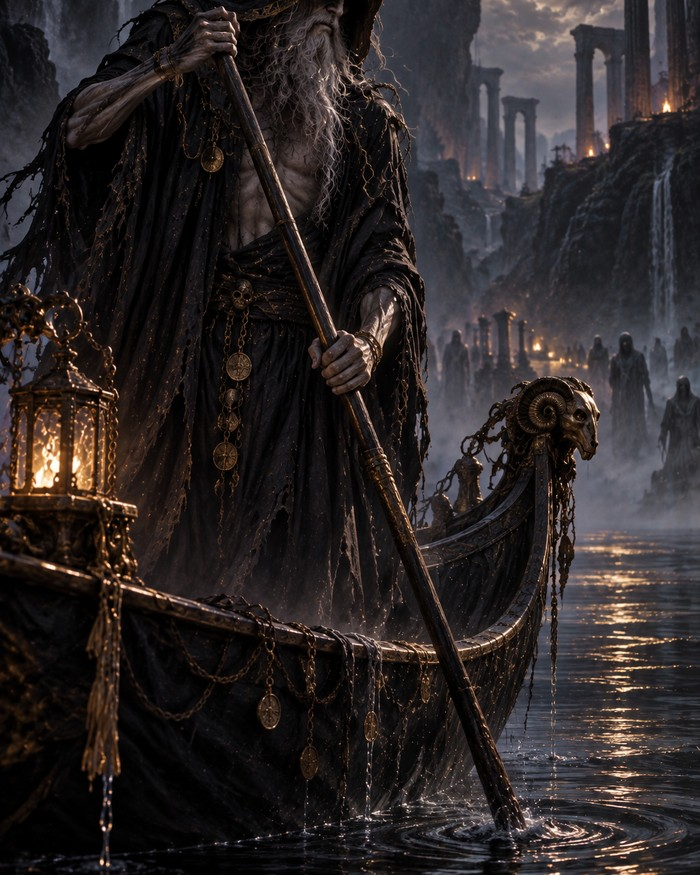
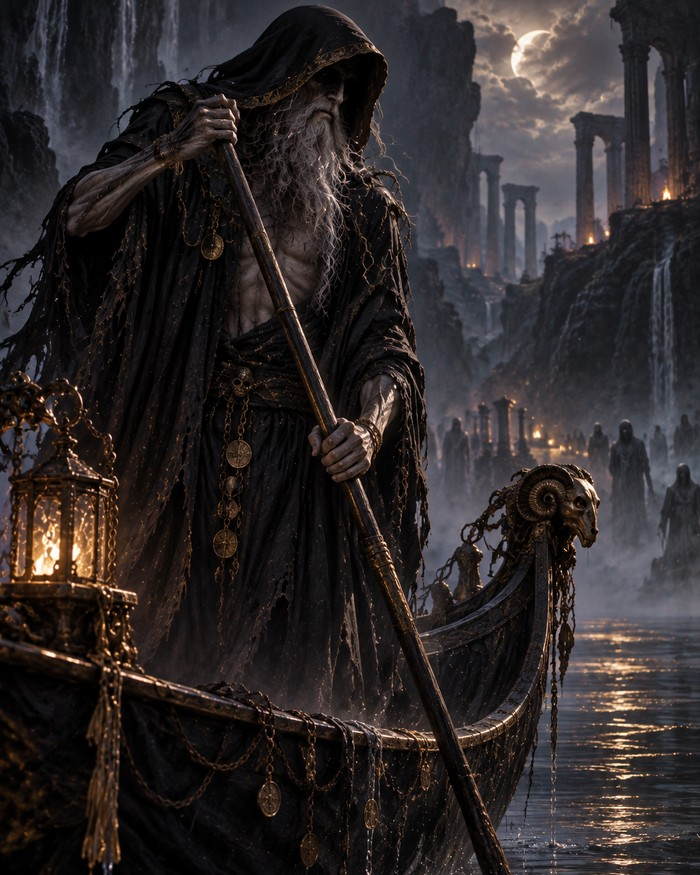
Fix head-cropped images and abrupt content pop-in on figure pages
The centered crop function trimmed top and bottom equally, but both the
Céphale/Procris javelot scene and Charon's portrait had their subject's
head right at the top edge of the source image, so the top trim cut into
it. Re-cropped both from the original files, trimming only from the
bottom this time.

The previous screen-fade fix stopped the whole page from blinking on
same-screen refresh, but didn't address the actual complaint: once
premium content arrives, the fiche body (absent from the loading
skeleton) still popped in with no transition at all. Added a dedicated
fade-in on that block, which needs no JS state tracking since it's a
freshly created element on every render.

Claude-Session: https://claude.ai/code/session_01RmV4NQeKHMug67uKaeW5hA

diff --git a/service-worker.js b/service-worker.js
@@ -1,4 +1,4 @@
-const CACHE="pantheon-v135";
+const CACHE="pantheon-v136";
 const ASSETS=["./","./index.html","./styles.css","./app.js","./manifest.json","./icon.svg","./icon-192.png","./icon-512.png","./icon-180.png","./politique-confidentialite.html","./assets/hero-olympians.jpg","./assets/badge-home-temple.webp","./assets/badge-figures-portrait.webp","./assets/badge-symbols-lyre.webp","./assets/badge-genealogy-mother.webp","./assets/badge-places-map.webp","./assets/badge-quiz-brain.webp","./assets/badge-quiz-debutant.webp","./assets/badge-quiz-sans-faute.webp","./assets/badge-quiz-terrain.webp","./assets/badge-quiz-intermediaire.webp","./assets/badge-quiz-polymathe.webp","./assets/badge-quiz-expert.webp","./assets/badge-quiz-contact.webp","./assets/badge-figure-quiz.webp","./assets/badge-genealogy-tree-link.webp","./assets/home-olive-branch.webp","./assets/symbol-abeille.webp","./assets/symbol-aigle.webp","./assets/symbol-ailes.webp","./assets/symbol-air.webp","./assets/symbol-araignee.webp","./assets/symbol-arc.webp","./assets/symbol-arc-en-ciel.webp","./assets/symbol-aurore.webp","./assets/symbol-balance.webp","./assets/symbol-belier.webp","./assets/symbol-ble.webp","./assets/symbol-caduceus.webp","./assets/symbol-carrefour.webp","./assets/symbol-cerf.webp","./assets/symbol-chaine.webp","./assets/symbol-char.webp","./assets/symbol-char-solaire.webp","./assets/symbol-chemin.webp","./assets/symbol-chene.webp","./assets/symbol-cheval.webp","./assets/symbol-chevre.webp","./assets/symbol-chien.webp","./assets/symbol-chouette.webp","./assets/symbol-cle.webp","./assets/symbol-colombe.webp","./assets/symbol-corbeau.webp","./assets/symbol-couronne.webp","./assets/symbol-crabe.webp","./assets/symbol-cygne.webp","./assets/symbol-corne-abondance.webp","./assets/symbol-eau.webp","./assets/symbol-dauphin.webp","./assets/symbol-cypres.webp","./assets/symbol-egide.webp","./assets/symbol-eclair.webp","./assets/symbol-eclipse.webp","./assets/symbol-etoile.webp","./assets/symbol-feu.webp","./assets/symbol-figue.webp","./assets/symbol-fil.webp","./assets/symbol-fleche.webp","./assets/symbol-crocus.webp","./assets/symbol-narcisse-fleur.webp","./assets/symbol-flute.webp","./assets/symbol-foret.webp","./assets/symbol-graine.webp","./assets/symbol-grenade.webp","./assets/symbol-grotte.webp","./assets/symbol-labyrinthe.webp","./assets/symbol-lance.webp","./assets/symbol-lanterne.webp","./assets/symbol-foudre.webp","./assets/symbol-laurier.webp","./assets/symbol-lierre.webp","./assets/symbol-lion.webp","./assets/symbol-lotus.webp","./assets/symbol-lune.webp","./assets/symbol-lyre.webp","./assets/symbol-miroir.webp","./assets/symbol-myrte.webp","./assets/symbol-noix.webp","./assets/symbol-olive.webp","./assets/symbol-olivier.webp","./assets/symbol-ouroboros.webp","./assets/symbol-paon.webp","./assets/symbol-papillon.webp","./assets/symbol-pavot.webp","./assets/symbol-pegase.webp","./assets/symbol-poisson.webp","./assets/symbol-pomme.webp","./assets/symbol-pont.webp","./assets/symbol-porte.webp","./assets/symbol-raisin.webp","./assets/symbol-riviere.webp","./assets/symbol-rose.webp","./assets/symbol-roue.webp","./assets/symbol-sanglier.webp","./assets/symbol-sceptre.webp","./assets/symbol-scorpion.webp","./assets/symbol-serpent.webp","./assets/symbol-soleil.webp","./assets/symbol-taureau.webp","./assets/symbol-temple.webp","./assets/symbol-terre.webp","./assets/symbol-torche.webp","./assets/symbol-torches.webp","./assets/symbol-trident.webp","./assets/symbol-vigne.webp","./assets/symbol-voile.webp","./assets/map-icon-sanctuaire.webp","./assets/map-icon-montagne.webp","./assets/map-icon-cite.webp","./assets/map-icon-ile.webp","./assets/map-icon-detroit.webp","./assets/map-icon-source.webp","./assets/map-icon-souterrain.webp"];
 
 self.addEventListener("install",event=>{

diff --git a/styles.css b/styles.css
@@ -1755,6 +1755,20 @@ details.symbol-more p, details.symbol-more ul{ margin-top: 10px; }
 #app.screen-fade{ animation: pantheon-screen-fade 0.18s ease; }
 @media (prefers-reduced-motion: reduce){ #app.screen-fade{ animation: none; } }
 
+/* 1bis) Retour direct de l'utilisatrice : « à chaque fois que je charge la page d'un personnage
+   il y a un petit accrochage » — persistait même après avoir empêché #app.screen-fade de rejouer
+   sur un simple rafraîchissement (voir ci-dessus) : le vrai souci n'était pas le clignotement,
+   mais l'apparition BRUTALE, sans la moindre transition, du corps de la fiche (Le mythe, Culte,
+   Lignée...) une fois le contenu premium arrivé — jusque-là absent du squelette de chargement
+   (voir renderOwnerPreviewLoading dans app.js), qui n'affiche que portrait + nom + note. Un fondu
+   dédié sur ce seul bloc, plutôt que sur toute la fiche : comme .detail-body-fade-in est posé sur
+   un élément entièrement recréé à chaque rendu (innerHTML remplacé en bloc), l'animation rejoue
+   d'elle-même sans le moindre retrait/réajout JS — inutile ici, à la différence de #app qui, lui,
+   persiste d'un rendu à l'autre. */
+@keyframes pantheon-detail-body-fade-in{ from{ opacity: 0; } to{ opacity: 1; } }
+.detail-body-fade-in{ animation: pantheon-detail-body-fade-in 0.25s ease; }
+@media (prefers-reduced-motion: reduce){ .detail-body-fade-in{ animation: none; } }
+
 /* 2) Retour tactile au tap — deux familles reprenant chacune la même teinte-cible que le :hover
    déjà défini pour l'élément (jamais une nouvelle couleur inventée), simplement aussi atteignable
    au doigt. Les cartes qui "s'élèvent" au survol (translateY + ombre) s'enfoncent légèrement à

diff --git a/app.js b/app.js
@@ -2859,6 +2859,7 @@ function renderFigureDetail(id){
       ${portrait ? `<img class="${deityPortraitClass(id)}" src="${escapeHTML(portrait)}" alt="${escapeHTML(name)}" loading="lazy"${deityPortraitStyleHTML(id)}>` : ""}
       <h2>${escapeHTML(name)}</h2>
       <p class="note">${escapeHTML(note)}</p>
+      <div class="detail-body-fade-in">
       ${figureAttributesHTML(id)}
       ${paragraphs.length ? `<h3>Le mythe</h3>${paragraphs.map(p => {
         const inline = inlinePortraits.find(cfg => p.includes(cfg.match));
@@ -2876,6 +2877,7 @@ function renderFigureDetail(id){
       ${relatedChipsHTML(related, "symbol")}
       ${quizFigureButtonHTML(id, paragraphs)}
       ${siblingNavHTML(FIGURE_ENTRIES, id, "figureDetail", e => e[1])}
+      </div>
     </article>
     ${backButtonFooterHTML()}
   `;

diff --git a/README.md b/README.md
@@ -4427,3 +4427,37 @@ fois (2 mutations), tandis qu'une vraie navigation entre deux figures différent
 rejouer normalement (vérifié séparément, toujours 2 épisodes distincts).
 
 `service-worker.js` (Panthéon) : `pantheon-v134` → `pantheon-v135`.
+
+## Les deux bugs précédents n'étaient pas vraiment réglés : recadrage et fondu, corrigés pour de bon
+
+Retour direct de l'utilisatrice après le round précédent : « Les deux bugs signalés ne sont pas
+résolus ; l'image où Procris tend le javelot à Céphale est coupée sur la tête de Céphale. Le
+deuxième bug aussi est toujours là avec le clignotement au chargement du texte. »
+
+**Le recadrage.** En zoomant sur le fichier réellement publié plutôt que de se fier à un aperçu
+plein cadre, le défaut saute aux yeux : la fonction de recadrage centrait toujours la réduction de
+hauteur (autant rogné en haut qu'en bas), alors que dans les deux images d'origine, la tête du
+sujet touchait presque le bord supérieur — aucune marge à sacrifier de ce côté-là. Concerné :
+Céphale dans la scène du javelot (tête tranchée au niveau du front), et Charon (capuche coupée en
+haut) sur son propre portrait, ajouté deux rounds plus tôt avec le même défaut jamais repéré à
+l'époque. Les deux fichiers ont été recoupés depuis l'image d'origine en ne rognant que le BAS,
+gardant tout l'espace du haut intact — le bas de chaque image (sol, robe, barque) supportait sans
+problème toute la réduction de hauteur nécessaire. Profité de l'occasion pour repasser en revue
+les 7 autres images ajoutées ces derniers rounds (Anchise, Anticlée, Céphale, Procris, Chaos) :
+aucune autre n'a ce défaut.
+
+**Le fondu.** La correction précédente (empêcher #app.screen-fade de rejouer sur un simple
+rafraîchissement de la même fiche) était juste, mais insuffisante : elle empêchait bien la page
+entière de clignoter (opacité 0 puis 1), mais ne changeait rien à ce qui causait réellement la
+gêne, à savoir l'apparition BRUTALE, sans la moindre transition, du corps de la fiche (Le mythe,
+Culte, Lignée…) une fois le contenu premium arrivé — ce bloc entier n'existe tout simplement pas
+dans le squelette de chargement affiché juste avant (seuls portrait, nom et note y figurent).
+Corrigé avec un fondu dédié à ce seul bloc (`.detail-body-fade-in`), qui n'a besoin d'aucune
+gestion d'état en JavaScript contrairement à celui d'`#app` : comme il est entièrement recréé à
+chaque rendu (`innerHTML` remplacé en bloc), l'animation CSS rejoue toute seule dès que l'élément
+apparaît, sans jamais retoucher le portrait/nom/note déjà affichés et inchangés.
+
+Testé (2820 vérifications, dont 3 nouvelles) : contrôle visuel en clair et en sombre des deux
+images recadrées (têtes désormais entières), et de la structure du nouveau bloc `.detail-body-fade-in`.
+
+`service-worker.js` (Panthéon) : `pantheon-v135` → `pantheon-v136`.
